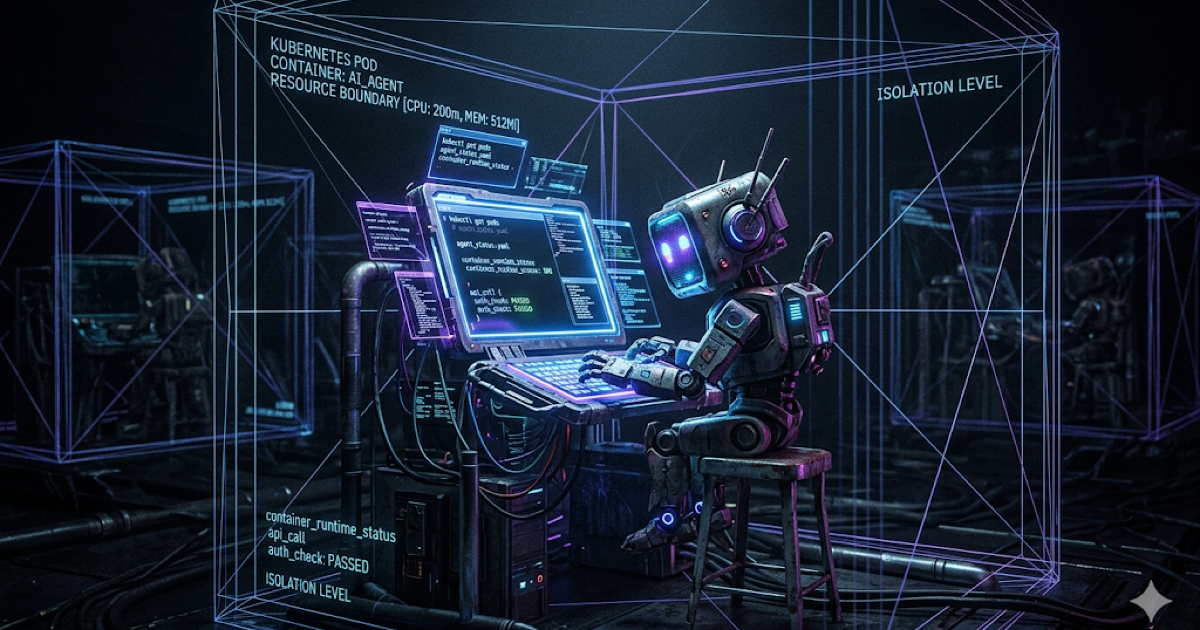
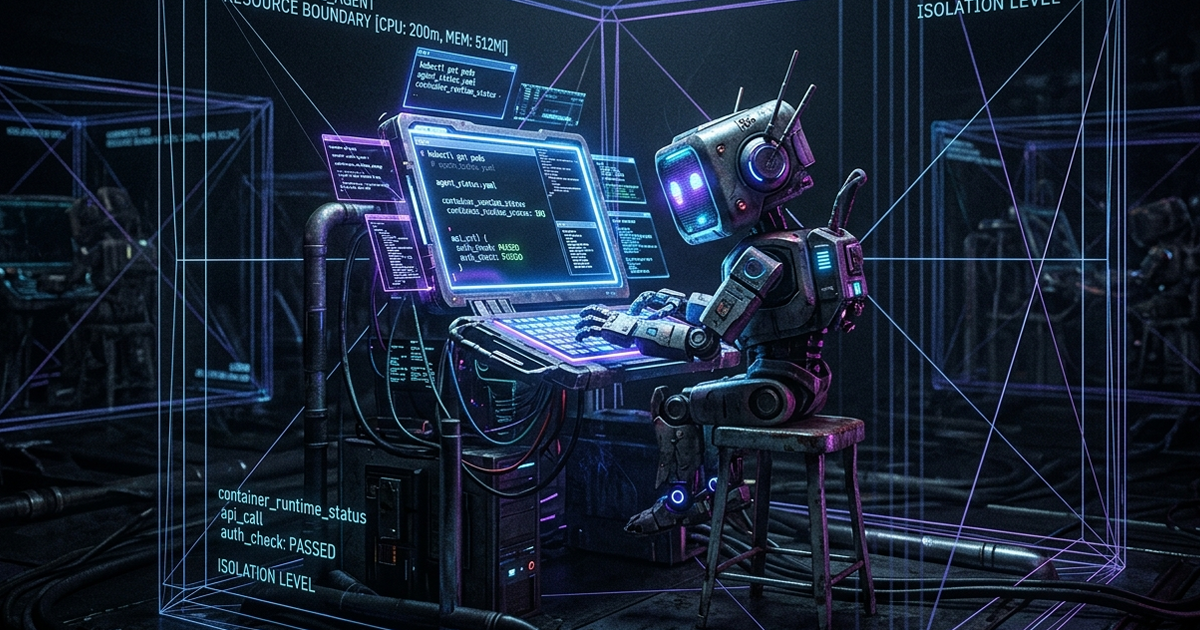
Updated image and fixed some words

diff --git a/_posts/2026-05-31-running-agents-with-dangerously-skip-permissions.md b/_posts/2026-05-31-running-agents-with-dangerously-skip-permissions.md
@@ -102,4 +102,4 @@ The project is open source: [k8s-agents-sandbox](https://github.com/alessandrolo
 
 ---
 
-*This article was written with the help of AI, of course.*
+*This article was written with the help of AI*